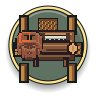
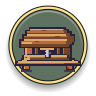
Replace the sawmill placeholder with a 3/4 hooded frame saw (#765)
The mill is now a 3x2 hooded frame saw on a 48x32 sheet, 30 px tall,
with a rising and falling sash. Placement, tests, the picker icon, and
feature docs follow the new footprint.

Evidence is in docs/evidence/sawmill-art/.

diff --git a/tools/ui/gen_hud_e4.py b/tools/ui/gen_hud_e4.py
@@ -295,9 +295,9 @@ def render_discs():
         disc(f'pick_{icon}', 24, icon, 1.72, toggle)
     sheet = OUT.parent.parent / 'structures' / 'sawmill_sheet.png'
     with Image.open(sheet) as sheet_image:
-        idle = sheet_image.convert('RGBA').crop((0, 0, 48, 48))
+        idle = sheet_image.convert('RGBA').crop((0, 0, 48, 32))
     disc('pick_sawmill', 24, '', 1.0, toggle,
-         overlay=idle.resize((72, 72), Image.Resampling.NEAREST))
+         overlay=idle.resize((72, 48), Image.Resampling.NEAREST))
     disc('run', 32, 'run', 1.45, basic)
     disc('attack', 40, 'sword', 1.40, ('idle', 'pressed', 'aim', 'disabled'))
     for part, states in [('base', ('normal', 'disabled')), ('knob', ('normal', 'active', 'disabled'))]:

diff --git a/docs/evidence/sawmill-art/REVIEW.md b/docs/evidence/sawmill-art/REVIEW.md
@@ -1,0 +1,17 @@
+# Hooded frame saw self-review
+
+1. **Projection.** The stepped timber hood fills the north row. Its lit top and south eave meet the front posts, sash, log, and trestle in the south row. The roof occupies 14 rows and the front occupies 16. The atlas mockup uses flat ground.
+2. **Light.** The roof courses, left post, end grain, and bench top catch the top-left light. The south fascia uses midtones, with darker timber on the right and under the eave.
+3. **Outline.** The silhouette uses a one-pixel `#2a2238` outline. The two contact marks are one pixel high in `#3d3a5c`. The down-facing flagbearer is the original sheet crop and keeps its `#141b1b` outline.
+4. **Palette.** All eight frames passed an exact RGB check against v1.1 and have binary alpha. The mill uses timber and steel, with wood-coloured chips.
+5. **Grid and scale.** The idle alpha bounds measure **44 × 30 px**, spanning x=2–45 and y=2–31 on the **48 × 32 px** canvas. The eight frames share those bounds. All review enlargements use nearest-neighbour at 4×.
+6. **Size.** The same-baseline lineup puts the mill at 30 px with the lumber mill and below the 31 px barracks. It is under two 16 px flagbearer sprites tall. Its open frame and 3×2 plot stay subordinate to the castle's 7×5 plot. The current castle walls are a 14 px ring and still need to grow.
+7. **Footprint, collision, and overhang.** The footprint is **3×2** at 16 px per tile. Invisible collision tiles occupy the five `TWT / T.T` structure cells and leave the south-center doorstep empty. Overhang is 0 px, with no collision outside the plot.
+8. **Y-sort reference.** The art's feet and contact row sit on the south edge of the plot. The intended sort line is that edge, 8 px below the installed sprite's south-middle tile-center anchor. The existing world draw order remains in effect and does not dynamically sort the mill against the hero.
+9. **Phone readability.** At 4× in a 480×270 logical view the hood, pale toothed blade and horizontal log remain distinct. The raised and lowered sash positions differ by four native pixels, with a widening kerf, scattered chips and a separating board at the bottom of the stroke.
+10. **Process.** Reviewed the native frames, 4× idle and work strip, and the same-baseline lineup. The atlas terrain mockup puts the mill beside the hero, castle and both pine sizes. The seven-frame working GIF loops at 130 ms per frame.
+
+The live seed 4 captures show the idle pose and both ends of the working stroke
+next to a pine. The camera at 1.0 shows the full castle and the hero with the
+mill at the same integer scale. Pixel comparison confirmed that each opaque
+sprite pixel covers a uniform 4 × 4 block in the idle and working captures.

diff --git a/docs/evidence/sawmill-art/README.md b/docs/evidence/sawmill-art/README.md
@@ -1,0 +1,30 @@
+# Hooded frame saw evidence
+
+The native art is 48 × 32 px per frame. Idle and each of the seven working
+frames measure 44 × 30 px through the alpha bounds. The 3×2 layout leaves the
+south-center doorstep empty.
+
+- [Native frames](native), [4× idle](idle_x4.png),
+  [4× work strip](work_strip_x4.png), and [working loop](working_loop.gif).
+  Work frame 1 holds the raised idle pose for the turnaround. The GIF shows
+  the seven working frames at 130 ms each.
+- [Scale lineup](scale_lineup_x4.png) and [atlas terrain mockup](island_mockup_x4.png).
+  The mill matches the lumber mill's 30 px height and sits below the 31 px
+  barracks. The castle has the largest plot at 7×5. Its 14 px wall ring
+  still needs to grow.
+- [Placed idle](placed_idle.png) and [idle detail](placed_idle_crop.png).
+  A live seed 4 match placed the sawmill through Buildings directly north of
+  a pine. Playback was held at frame 0 for this capture.
+- [Raised and lowered sash](working_frames_in_game.png). These are unscaled
+  crops of working frames 1 and 3 after playback resumed.
+- [In-game scale](scale_in_game.png). The whole starting castle, mill, hero,
+  and pine share the 1920 × 1080 capture. Camera zoom was held at 1.0, which
+  draws each native pixel as a 4 × 4 block.
+
+The live images were captured with the verify-flagoria display launcher under
+Xvfb. The placed idle and working crops match the source sprite's opaque pixels
+exactly at 4×. See the [ten-step self-review](REVIEW.md) for the art checks.
+
+The existing placement and two-player animation drives also passed under Xvfb.
+The two-player run showed the joiner placing the mill, the host seeing it work,
+and the host reloading the idle mill after the joiner left.

diff --git a/.cursor/skills/verify-flagoria/features/sawmill-animation.md b/.cursor/skills/verify-flagoria/features/sawmill-animation.md
@@ -6,14 +6,15 @@ Source: Scripts/mechanics/structures/structure_placer.gd
 Source: Scripts/mechanics/building/build_preview.gd
 
 The Buildings picker and preview use the idle pose. The placed sawmill uses a
-transparent 48 × 48 sprite over the generated ground. When the sawmill can
-deliver wood, the blade strokes, the wheel turns, and a positional wood-cutting
-sound plays once per loop. A disconnected owner leaves the still pose and
-silences the sound. Demolition removes the artwork and sound together.
+transparent 48 × 32 sprite over the generated ground. When the sawmill can
+deliver wood, the sash and blade stroke through the log, chips fly, a plank
+starts to separate, and a positional wood-cutting sound plays once per loop.
+A disconnected owner leaves the still pose and silences the sound.
+Demolition removes the artwork and sound together.
 
 - The display drive starts a localhost joiner, opens Buildings and places a
-  sawmill via the preview. Inspect both idle picker and preview, the extended
-  blade and sawdust during production, and the joiner's view of that same mill.
+  sawmill via the preview. Inspect both idle picker and preview, the raised
+  and lowered sash during production, and the joiner's view of that same mill.
   The host then captures the idle pose after the joiner leaves and again after
   saving and reloading through Worlds.
 - `test_sawmill_animation_lifecycle` checks footprint alignment, invisible

diff --git a/.cursor/skills/verify-flagoria/features/README.md b/.cursor/skills/verify-flagoria/features/README.md
@@ -82,7 +82,7 @@ Maintained recipes for proving user-facing and CI-facing behavior. Read this ind
 - [Demolish construction](./demolish-construction.md)
 - [Build barracks](./build-barracks.md) — `barracks.txt` for 20 wood and 10 stone from the build picker, save/reload and multiplayer sync (#556).
 - [Place a mine](./place-mine.md) — a 3×3 mine costs 15 wood and needs an orthogonally adjacent live rock (#722).
-- [Place a sawmill](./place-sawmill.md) — a 3×3 sawmill costs 15 stone and needs an orthogonally adjacent live tree or pine (#749).
+- [Place a sawmill](./place-sawmill.md) — a 3×2 sawmill costs 15 stone and needs an orthogonally adjacent live tree or pine (#749).
 - [Produce wood at placed sawmills](./sawmill-production.md) — each sawmill credits its owner one wood per minute (#750).
 - [Sawmill animation and sound](./sawmill-animation.md) — the placed sawmill strokes its blade and plays a positional wood-cutting sound while producing (#751).
 - [Produce stone at placed mines](./mine-production.md) — each mine credits its owner one stone per minute (#723).

diff --git a/.cursor/skills/verify-flagoria/features/place-sawmill.md b/.cursor/skills/verify-flagoria/features/place-sawmill.md
@@ -11,12 +11,12 @@ Source: Scripts/mechanics/tuning/tuning.gd
 Source: Scripts/ui/hud_tool_row.gd
 Source: Scripts/world/TileMap.gd
 
-Open Buildings and select **Sawmill** to start a 3×3 preview at screen centre.
+Open Buildings and select **Sawmill** to start a 3×2 preview at screen centre.
 Drag to a reachable clear site whose anchor touches a live tree or pine
 orthogonally. The ready preview shows **15 stone**. A diagonal tree, bush,
 stump or absent tree turns it red and shows **not adjacent to a tree**.
 A clear site with a live neighbour and too little stone shows **not enough stone**.
-The preview and timber placeholder leave the generated ground visible.
+The preview and hooded mill leave the generated ground visible.
 
 The buyer owns the sawmill and spends stone only. The host checks the current
 tree when processing a request. A placed sawmill survives chopping and returns
